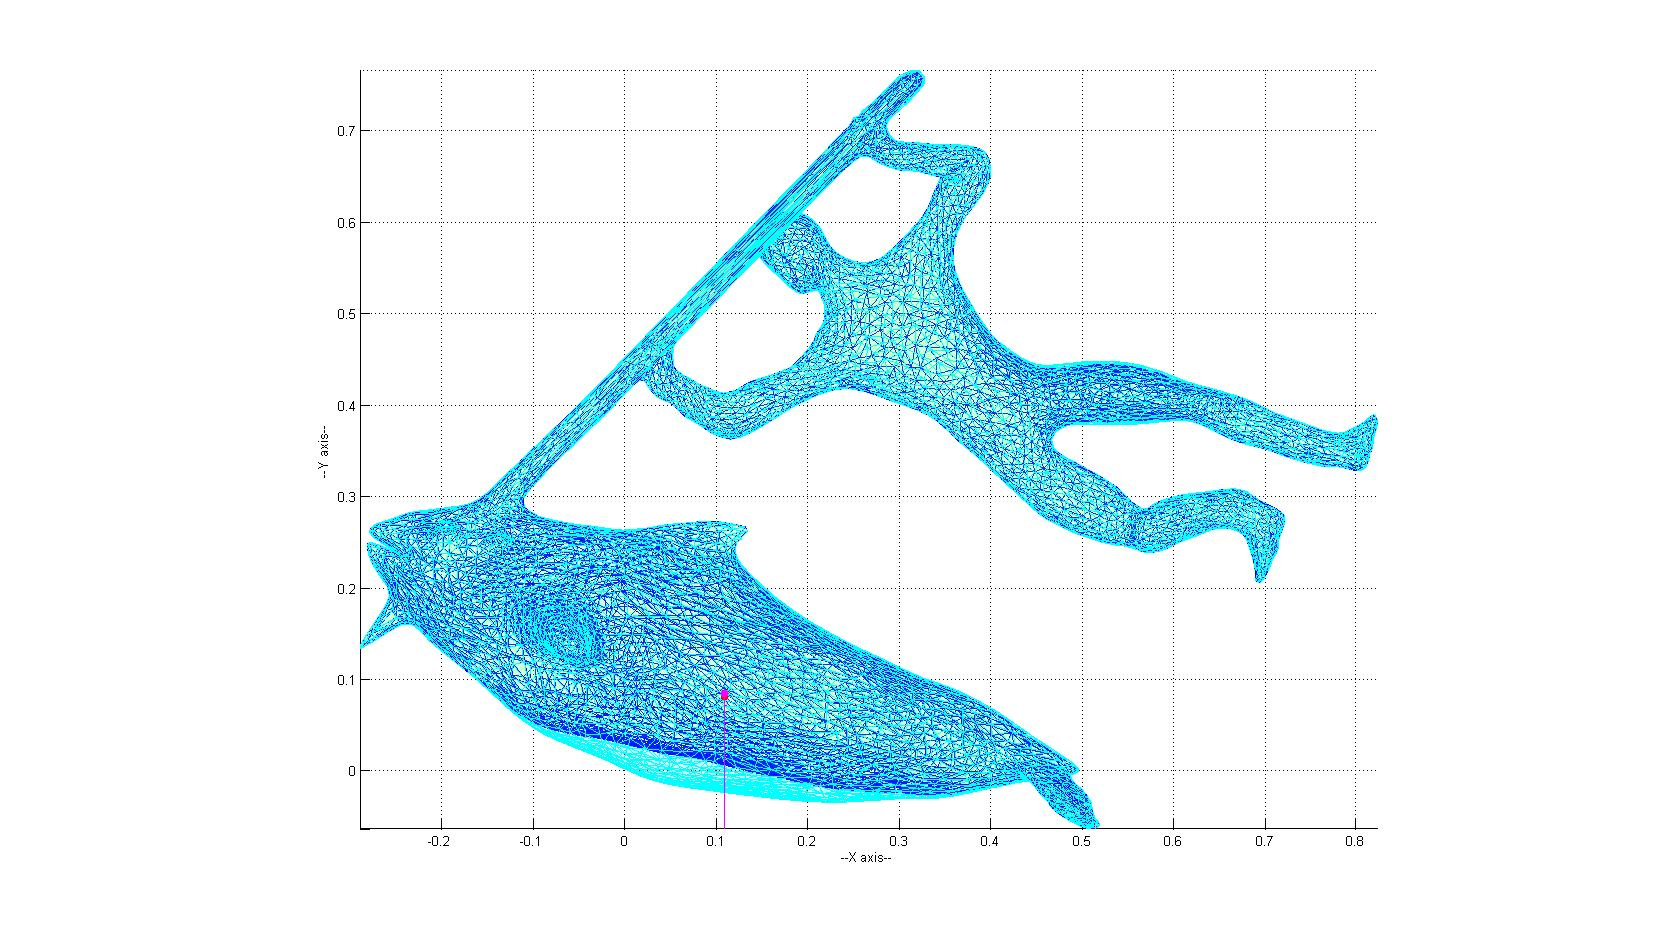
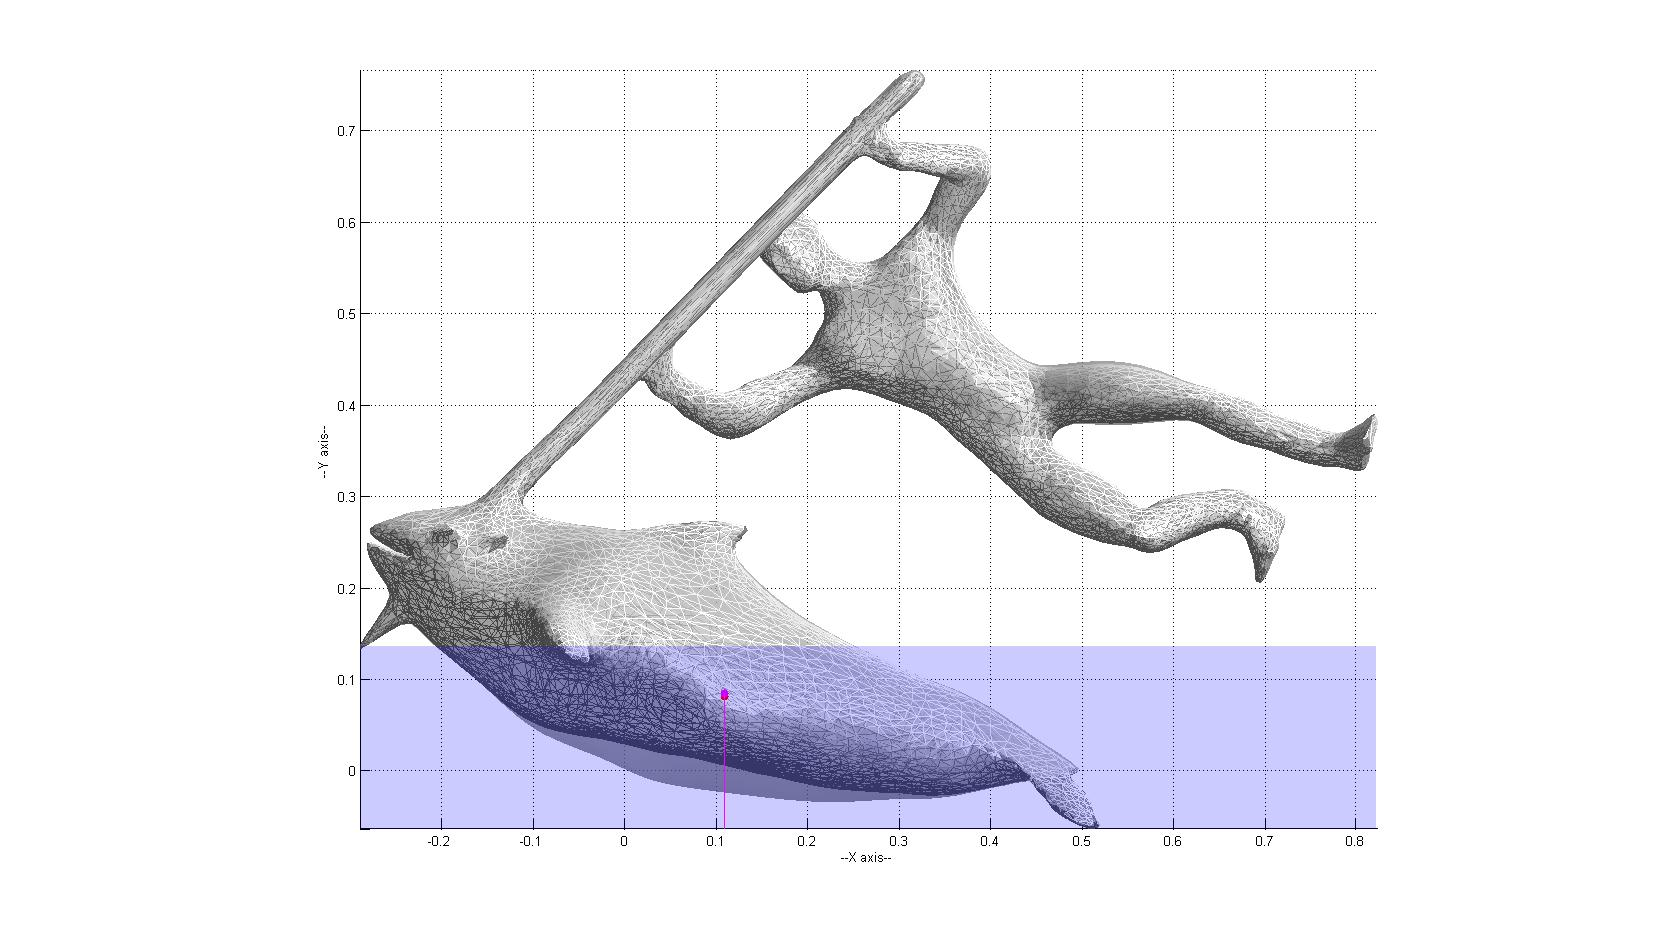
redraw some result

Changed region(s): [[0.2167, 0.0623, 0.8357, 0.9033]]

diff --git a/main_man.m b/main_man.m
@@ -1,78 +1,78 @@
-% clear;
-% clc;
-
-fprintf(1, 'Specific Volume and Buoyancy of man\n\n');
-
-%% read file
-tic;
-% node_num,     int,    1*1,        the number of vertex
-% face_num,     int,    1*1,        the number of face
-% normal_num,	int,    1*1,        the number of normal vector
-% node_xyz,     double, 3*node_num,     the coordinate of all node
-% face_order,	int,    1*face_num,     the number of vertex each face include
-% face_node,	int,        order_max*face_num,     the index of node each face include
-% normal_vector,	double, 3*normal_num,           normal vector
-% vertex_normal,	int,    order_max*face_num,     the index of normal vector of vertex of each face
-[ node_num, face_num, normal_num, ...
-    node_xyz, face_order, face_node, normal_vector, vertex_normal] ...
-    = obj_display('E:\Project\zju_code\triangleMesh\man_r20.obj');
-fprintf(1, '\nRead file finished\n');
-toc;
-fprintf(1, '----------------------------\n\n');
-pause off;
-pause;
-%% for futher process, it mush be triangle mesh
-if ( max(face_order) ~= 3 || min(face_order) ~= 3)
-    fprintf(1, 'Error:\n');
-    fprintf(1, '  This is not a pure triangle mesh!\n');
-else
-    %% get lapalace operator
-    tic;
-% lap, double, node_num*node_num, lapalace operator
-    lap = GetLapalaceOp(node_num, face_num, node_xyz, face_node);
-    fprintf(1, '\nCalculate lapalace operator finished\n');
-    toc;
-    fprintf(1, '----------------------------\n\n');
-    %Eigendecomposition
-    tic;
-% H, doubl,  node_num*node_num, eigenvector of lapalace operator
-% D, dobule, node_num*node_num, diagonal matrix, with its diagonal eigenvalue of lapalace operator
-% D mush be non-negative
-    [V,D] = eig(lap);
-    fprintf(1, '\nCalculate eigenvector finished\n');
-    toc;
-    fprintf(1, '----------------------------\n\n');
-    pause;
-    %% get skeleton 
-    tic;
-% skel_num,	 int,   1*1,        the number of vertex in skeleton
-% edge_num,  int,   1*1,        the number of edge in skeleton
-% map_num,   int,   1*1,        the number of map == node_num
-% skel_node, double,3*skel_num, the coordinate of skeleton vertex
-% edge,      int,   2*edge_num, the index of vertex that each edge include
-% map,       int,   2*map_num,  map surface vertex -> skeleton vertex
-    [skel_node, edge, skel_face, map, skel_num, edge_num, skel_face_num, map_num] = ...
-        map_reader('E:\Project\zju_code\triangleMesh\man_r20_copy5.obj');
-    fprintf(1, '\nnCalculate skeleton finished\n');
-    toc;
-    fprintf(1, '----------------------------\n\n');
-    pause;
-    %% get offset vector and bounds
-    tic;
-% offset_vector, double, 3*node_num, offset vector of each vertex
-% offset_bound,  double, 1*node_num, maximum offset of inner surface
-    [offset_vector, offset_bound] = cal_offset(node_xyz, skel_node, map, node_num);
-    fprintf(1, '\nCalculate offset vector and bounds finished\n');
-    toc;
-    fprintf(1, '----------------------------\n\n');
-    pause
-    %% get mass properties
-    tic;
-    [mass0, cm0, inertia0] = mass_properties(node_xyz, face_node, face_num);
-    fprintf(1, '\nnCalculate mass properties finished\n');
-    toc;
-    fprintf(1, '----------------------------\n\n');
-    pause
+% % clear;
+% % clc;
+% 
+% fprintf(1, 'Specific Volume and Buoyancy of man\n\n');
+% 
+% %% read file
+% tic;
+% % node_num,     int,    1*1,        the number of vertex
+% % face_num,     int,    1*1,        the number of face
+% % normal_num,	int,    1*1,        the number of normal vector
+% % node_xyz,     double, 3*node_num,     the coordinate of all node
+% % face_order,	int,    1*face_num,     the number of vertex each face include
+% % face_node,	int,        order_max*face_num,     the index of node each face include
+% % normal_vector,	double, 3*normal_num,           normal vector
+% % vertex_normal,	int,    order_max*face_num,     the index of normal vector of vertex of each face
+% [ node_num, face_num, normal_num, ...
+%     node_xyz, face_order, face_node, normal_vector, vertex_normal] ...
+%     = obj_display('E:\Project\zju_code\triangleMesh\man.obj');
+% fprintf(1, '\nRead file finished\n');
+% toc;
+% fprintf(1, '----------------------------\n\n');
+% pause off;
+% pause;
+% %% for futher process, it mush be triangle mesh
+% if ( max(face_order) ~= 3 || min(face_order) ~= 3)
+%     fprintf(1, 'Error:\n');
+%     fprintf(1, '  This is not a pure triangle mesh!\n');
+% else
+%     %% get lapalace operator
+%     tic;
+% % lap, double, node_num*node_num, lapalace operator
+%     lap = GetLapalaceOp(node_num, face_num, node_xyz, face_node);
+%     fprintf(1, '\nCalculate lapalace operator finished\n');
+%     toc;
+%     fprintf(1, '----------------------------\n\n');
+%     %Eigendecomposition
+%     tic;
+% % H, doubl,  node_num*node_num, eigenvector of lapalace operator
+% % D, dobule, node_num*node_num, diagonal matrix, with its diagonal eigenvalue of lapalace operator
+% % D mush be non-negative
+%     [V,D] = eig(lap);
+%     fprintf(1, '\nCalculate eigenvector finished\n');
+%     toc;
+%     fprintf(1, '----------------------------\n\n');
+%     pause;
+%     %% get skeleton 
+%     tic;
+% % skel_num,	 int,   1*1,        the number of vertex in skeleton
+% % edge_num,  int,   1*1,        the number of edge in skeleton
+% % map_num,   int,   1*1,        the number of map == node_num
+% % skel_node, double,3*skel_num, the coordinate of skeleton vertex
+% % edge,      int,   2*edge_num, the index of vertex that each edge include
+% % map,       int,   2*map_num,  map surface vertex -> skeleton vertex
+%     [skel_node, edge, skel_face, map, skel_num, edge_num, skel_face_num, map_num] = ...
+%         map_reader('E:\Project\zju_code\triangleMesh\man_copy5.obj');
+%     fprintf(1, '\nnCalculate skeleton finished\n');
+%     toc;
+%     fprintf(1, '----------------------------\n\n');
+%     pause;
+%     %% get offset vector and bounds
+%     tic;
+% % offset_vector, double, 3*node_num, offset vector of each vertex
+% % offset_bound,  double, 1*node_num, maximum offset of inner surface
+%     [offset_vector, offset_bound] = cal_offset(node_xyz, skel_node, map, node_num);
+%     fprintf(1, '\nCalculate offset vector and bounds finished\n');
+%     toc;
+%     fprintf(1, '----------------------------\n\n');
+%     pause
+%     %% get mass properties
+%     tic;
+%     [mass0, cm0, inertia0] = mass_properties(node_xyz, face_node, face_num);
+%     fprintf(1, '\nnCalculate mass properties finished\n');
+%     toc;
+%     fprintf(1, '----------------------------\n\n');
+%     pause
     %% prepare for Optimization
     tic;
     offset_vector_in = offset_vector;
@@ -94,7 +94,7 @@ else
         H = V;
     end
     rho = 1/1.2; % rho = rho(water) / rho(object);
-    h = 0.1;
+    h = 0.3;
     
     % variable to be optimizated, 
     % bound_min < H * alpha < bound_max
@@ -171,5 +171,5 @@ else
     [mass_in, cm_in, ~] = mass_properties(node_xyz_in, face_in, face_num);
     mass_in
     cm_in
-end
+% end
 

diff --git a/draw_result.m b/draw_result.m
@@ -3,15 +3,28 @@ plot3(cm(1), cm(2), max(node_xyz(3,:)), 'r.', 'MarkerSize', 18);
 hold on;
 plot3([cm(1),cm(1)],[cm(2),min(node_xyz(2,:))],[max(node_xyz(3,:)),max(node_xyz(3,:))],'r','LineWidth',1);
 hold on;
-% plot3(bcm(1), bcm(2), max(node_xyz(3,:)), 'magenta.', 'MarkerSize', 18);
-% hold on;
-% plot3([bcm(1),bcm(1)],[bcm(2),min(node_xyz(2,:))],[max(node_xyz(3,:)),max(node_xyz(3,:))],'magenta','LineWidth',1);
-% hold on;
+plot3(bcm(1), bcm(2), max(node_xyz(3,:)), 'magenta.', 'MarkerSize', 18);
+hold on;
+plot3([bcm(1),bcm(1)],[bcm(2),min(node_xyz(2,:))],[max(node_xyz(3,:)),max(node_xyz(3,:))],'magenta','LineWidth',1);
+hold on;
+
+x = min(node_xyz(1,:)) : 0.01 : max(node_xyz(1,:));
+y = min(node_xyz(2,:)) : 0.01 : (min(node_xyz(2,:)) + h);
+z = max(node_xyz(3,:)) * ones(length(y),length(x));
+mesh(x,y,z,'FaceColor','blue','EdgeColor','blue','FaceAlpha',0.2, 'EdgeAlpha', 0);
+hold on;
+
 handle = patch ( 'Vertices', node_xyz', 'Faces', face_node' );
-set ( handle, 'FaceColor', 'cyan', 'EdgeColor', 'cyan' ,'FaceAlpha',0.1);
+set ( handle, 'FaceColor', [0.8,0.8,0.8], 'EdgeColor', [0.8,0.8,0.8], ...
+    'FaceAlpha',0.5, 'EdgeAlpha', 0, ...
+    'EdgeLighting', 'flat ', 'FaceLighting', 'flat '); % phong
+light('Position',[30 30 30],'Style','infinite');
 hold on;
 handle = patch ( 'Vertices', node_xyz_in', 'Faces', face_node' );
-set ( handle, 'FaceColor', 'Yellow', 'EdgeColor', 'blue' ,'FaceAlpha',0.1);
+set ( handle, 'FaceColor', 'yellow', 'EdgeColor', [1,1,1], ...
+    'FaceAlpha',0, 'EdgeAlpha', 1, ...
+    'EdgeLighting', 'flat ', 'FaceLighting', 'flat ');
+light('Position',[30 30 30],'Style','infinite','color',[0.4,0.4,0.4]);
 
 axis equal; 
 xlim;

diff --git a/main_rs.m b/main_rs.m
@@ -77,7 +77,7 @@ else
     tic;
     offset_vector_in = offset_vector;
     offset_vector_out = - offset_vector;
-    offset_in_normal = 1;   % should be changed according to the size of object!
+    offset_in_normal = 0.3;   % should be changed according to the size of object!
     bound_in_max = offset_bound;
     bound_in_min = cal_lower_bound(offset_in_normal, node_num, normal_vector, offset_vector_in, bound_in_max);
     bound_out_min = zeros(1,node_num);  % default to be 0, can be changed according to the size of object!
@@ -87,7 +87,7 @@ else
     wp = 0;
     
     % the number of H used, default to be node_num
-    k = 20;
+    k = 30;
     if(k <= node_num)
         H = V(:,1:k);
     else
@@ -126,7 +126,7 @@ else
 
     % suppose: do not change the outer surface
     options = optimoptions('fmincon'...
-        , 'Algorithm','active-set'...% choose a algorithm:'interior-point','trust-region-reflective','sqp','active-set'
+        , 'Algorithm','interior-point'...% choose a algorithm:'interior-point','trust-region-reflective','sqp','active-set'
         , 'MaxIter', 3000 ...
         , 'MaxFunEvals', 8000 ...
         , 'Display', 'iter-detailed' ...% 'off','iter','iter-detailed','notify','notify-detailed','final','final-detailed'

diff --git a/main_mrhumpty.m b/main_mrhumpty.m
@@ -90,7 +90,7 @@ else
     wp = 0;
     
     % the number of H used, default to be node_num
-    k = 60;
+    k = 100;
     if(k <= node_num)
         H = V(:,1:k);
     else
